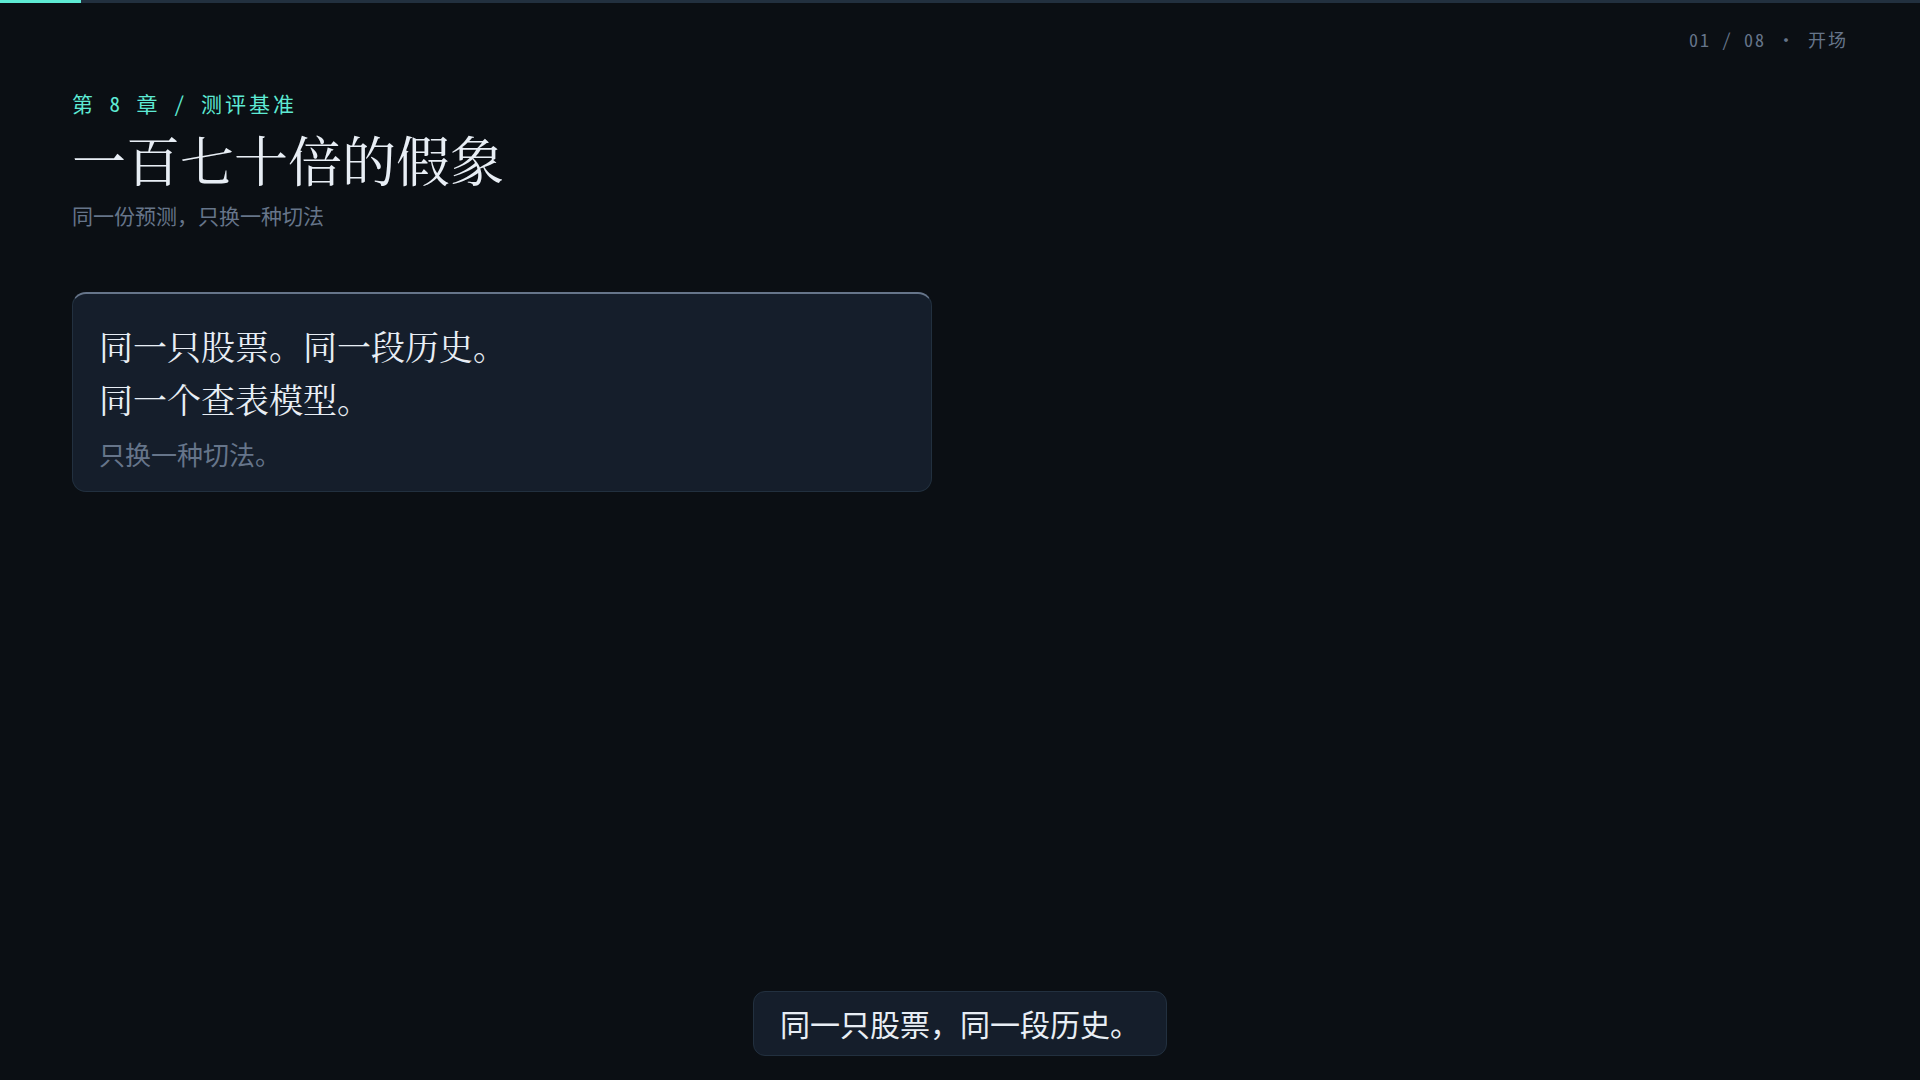
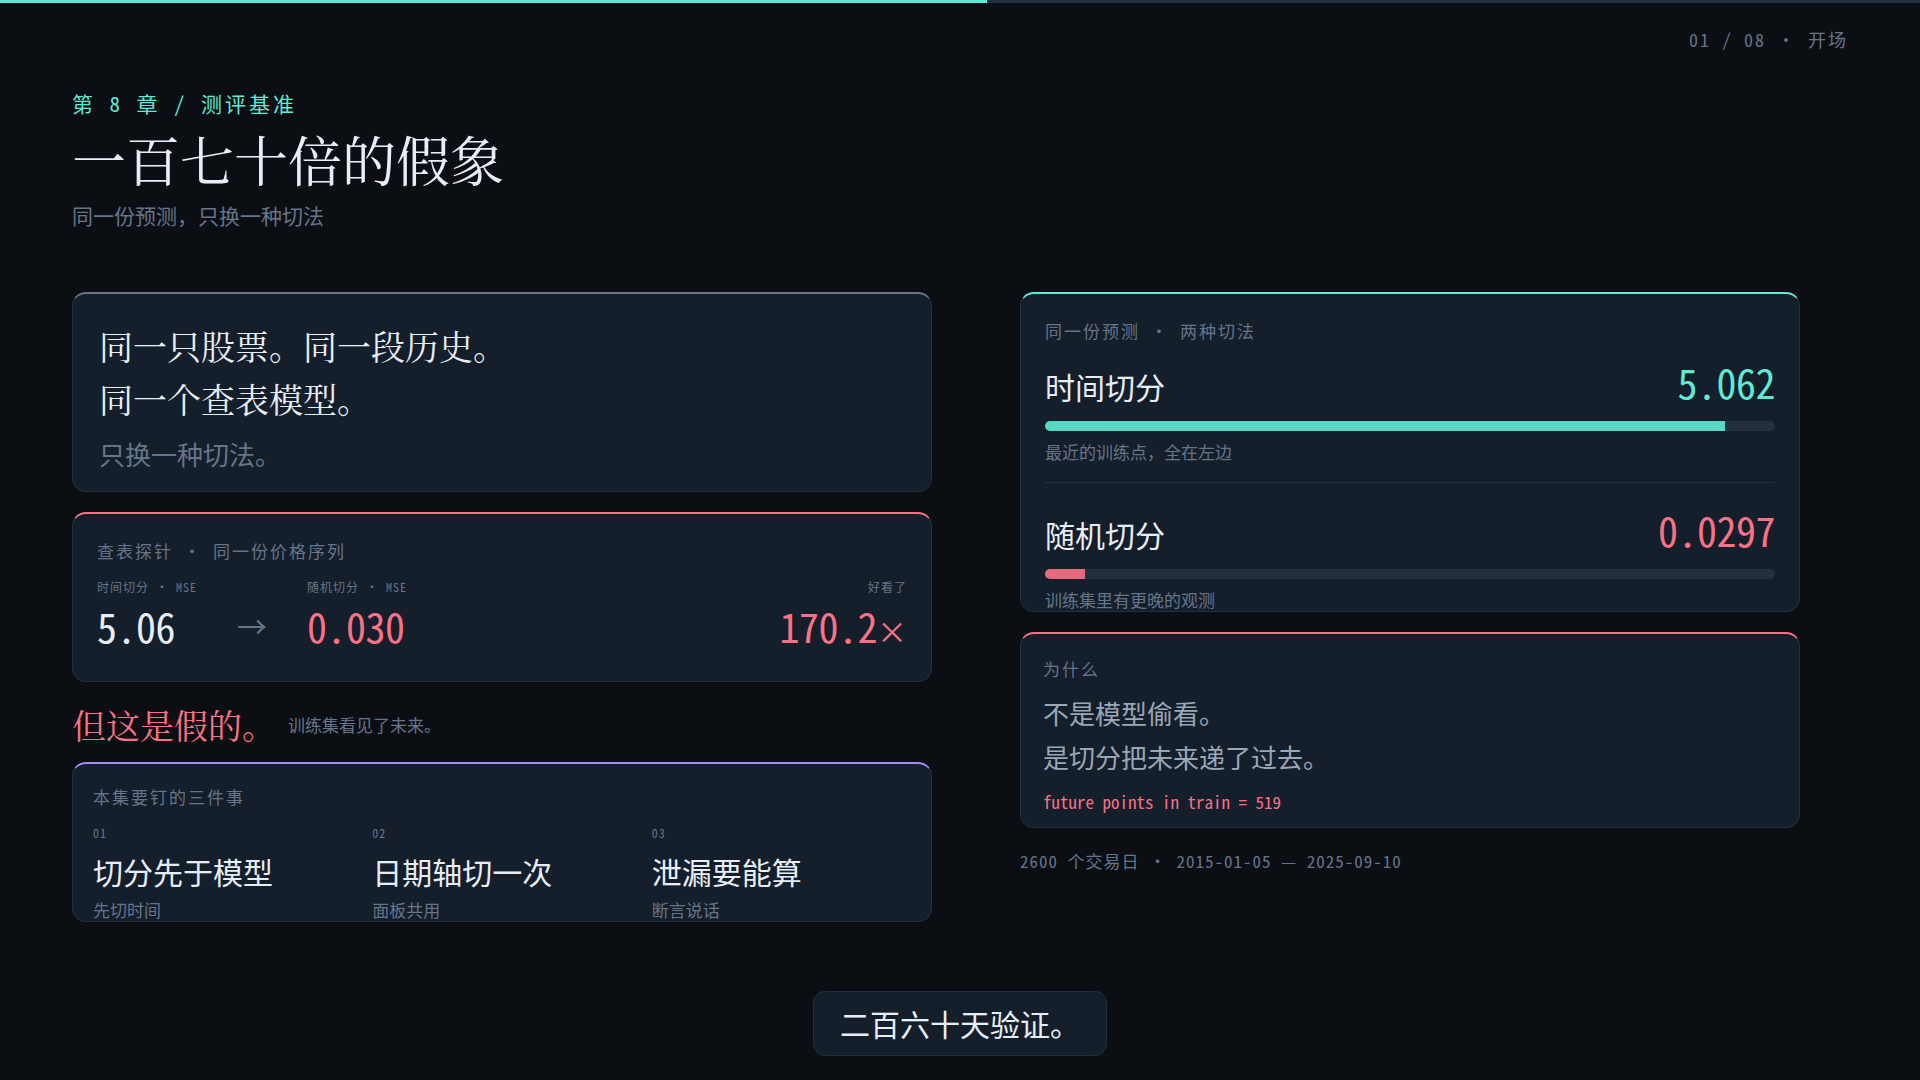
docs(ep67): finalize delivery metadata and handoff

diff --git a/docs/HANDOFF.md b/docs/HANDOFF.md
@@ -1,0 +1,90 @@
+# HANDOFF — tsint 系列生产（2026-10-30）
+
+> 本文件是跨会话交接单。当前进度、已验证数字、未完成项、下次入口都在这里。
+> 用户 2026-10-30 指令：**只完成当前这一集（E67）；后续视频暂停；不发布 B 站。**
+> E67 已完成并提交；本文件写完即进入暂停状态，下一次开工先读本文件与 `docs/tsint-production-plan-2026-10-30.md`。
+
+## 1. 当前进度（截至 2026-10-30 13:59 +08:00）
+
+- 已成片 9 / 74 集：E01、E65、E66、E67、E70–E74。
+- 已实现 20 / 190 个算法模块、275 条断言：
+  - ch09：11 模块 / 142 条（E70–E74）；
+  - ch08：E65 3 / 37，E66 3 / 46，E67 3 / 50。
+- 四仓当前 HEAD：
+  - `video_project`（内容）：本文件所在提交（E67 最终提交）；
+  - `ts-base`（算法/证据）：`b97c7db`；
+  - `ts-admin`（数据导出）：`b071b6f`；
+  - `video-pipeline-blueprint`（引擎）：`856d804`。
+- E67 成片：`series/tsint/episodes/67-split-no-leakage/delivery/Tsint67SplitNoLeakage.mp4`。
+  1364.93 s（22.75 min）/ 40948 帧 / 1920×1080 / 30 fps / 8 场；
+  −15 LUFS，TP −2 dBFS；428 条字幕 cue，8 章，封面 frame 2200（73.33 s）。
+- **未发布 B 站**。film 只到 `status: ready`，没有 `bili.bv`。
+
+## 2. E67 交接：切数据的三条规矩
+
+- pack：`series/tsint/episodes/67-split-no-leakage/`；标题「一百七十倍的假象」。
+- 书页 p.199–204，节 8.4.3 / 8.6.1；计划 22 min，实做 22.75 min。
+- 三个 Haskell 模块（ts-base）：
+  - `TsBase.Algos.Ch08.TemporalSplit`：`chronologicalSplit`、`splitLeaks`、`leakCount`、`splitSizes`；
+  - `TsBase.Algos.Ch08.FixedForecast`：`fixedOrigin`、`naiveModel`、`linearModel`、`trainStats`；
+  - `TsBase.Algos.Ch08.RollingForecast`：`rollingOrigins`、`originIsClean`、`rollingReport`。
+- 数据：ts-admin `inventory/scripts/export_ch08_split.py`；ts-base `data/episodes/67-split-no-leakage/`（2600 个交易日，2015-01-05..2025-09-10；20 只面板 49277 行）。
+- 证据：ts-base `inventory/evidence/ch8-split.json`（50 tests：19/17/14，24 checks 全 PASS）。
+- 屏幕数字（全部可复算）：
+  - 划分 1820 / 260 / 520；训练终点 2022-06-28、验证 2022-06-29、测试 2023-07-24；
+  - 时间切分泄漏 0，随机切分 2（order/train-val、order/val-test），未来点 519；
+  - 查表探针 MSE 5.062234230353 → 0.029734124098，ratio 170.249986637171；
+  - 固定预测 f=20：naive train 0.05851481981525 / test 0.0951015370496 / gap +0.03658671723435；linear 7.422038029699 / 0.673508705187 / −6.748529324512；
+  - 滚动 70 轮：mean 0.680433157601、min 0.0075351491947、max 3.731959677546；
+  - 面板：20 只、13 个训练终点、行数 473..1820、测试 514..520、日期违规 0。
+
+## 3. 崩溃事件与待生效的修复（重要）
+
+2026-10-30 10:09 宿主提交内存耗尽（Event 2004）：
+
+- 证据：`vmmemWSL` 提交 56,124,280,832 B（52.3 GiB）；两个 pythonw 各约 4.4 GB；msedge 1.8 GB；Windows 提交限制 102,396,096,512 B，仅余 2,365,132,800 B。
+- 已改 `/mnt/c/Users/ZYX/.wslconfig`：`memory=40GB`、`swap=24GB`，`[experimental]` 加 `autoMemoryReclaim=gradual`、`sparseVhd=true`；其余 mirrored / dnsTunneling / firewall / autoProxy / kernel 保留。
+- **该配置只在 `wsl --shutdown` 后生效**；本会话不能执行（会杀死 DSH）。下次从 Windows 侧、确认没有长任务时执行 `wsl --shutdown`，再启动并核对 `vmmemWSL`。
+- 立即保护已生效：`docker update --memory 12g --memory-swap 16g haskell-ts`。E67 测试曾触发 cgroup OOM（spec 被 12 GB 上限杀掉），没有再次拖垮宿主。
+- 事后核对命令：Windows 任务管理器「提交大小」、`wsl -l -v`、容器内 `free -g`、`docker inspect haskell-ts --format '{{.HostConfig.Memory}}'`。
+
+## 4. 复现/验收命令
+
+```bash
+# 算法与测试（容器）
+docker start haskell-ts
+docker exec haskell-ts bash -lc 'export PATH=/opt/ghc/9.14.1/bin:$PATH; cd /work && cabal build all && cabal test'
+
+# 证据重生成（ts-base）
+docker exec haskell-ts bash -lc 'export PATH=/opt/ghc/9.14.1/bin:$PATH; cd /work && cabal run evidence-ch08-split'
+
+# 内容仓校验
+cd /root/video_project && node tools/check.mjs && node tools/status.mjs
+
+# 引擎校验与成片重建
+cd /root/video-pipeline-blueprint
+node scripts/films.mjs check --strict
+node scripts/make.mjs --film=tsint-67-split-no-leakage --score=/root/video-pipeline-blueprint/out/e67-score-loop-48k.wav
+```
+
+- E67 的 score 是 E66 `delivery/score.wav`（822 s）两份、6 s 交叉淡化、atrim 1365 s，再重采样 48 kHz，落在 `out/e67-score-loop-48k.wav`。
+- `render_music.mjs` 生成长配乐非常慢（1365 s 超过 14 min 未完成），长集优先复用既有 score。
+- make 的 content check 要求内容仓 **已提交且 HEAD 与 registry 一致**；每次提交后先 `films.mjs sync` 再 make。
+- `publish.coverFrame` 过去被 registry 丢掉，封面总是 180 帧；`856d804` 已修，E67 是首集全自动 2200 帧封面。
+
+## 5. 下次入口（E68）
+
+按 `ts-base/plans/series.json` 的 `production_order`，E67 之后是 **E68 fewshot-and-cost**：
+
+- pack：`series/tsint/episodes/68-fewshot-and-cost/`（目前是 scaffold）；
+- 标题「5% 的样本怎么选：Few-shot 采样器与它的成本账」；ch08；p.203–207；计划 16 min；依赖 E67；
+- 2 个算法：`ch8-fewshot-sampler`（`TsBase.Algos.Ch08.FewShotSampler`）、`ch8-efficiency-bench`（`TsBase.Algos.Ch08.Efficiency`）；
+- 验收必须出现：8 种采样组合的 50 点位置图；同种子两次采样逐位一致；3 个规模模型参数量（337 为自检数字）。
+- 建议顺序：读 spec → 写 2 模块 + 黄金值/边界测试 → ts-admin 导出（沿用 E67 模板）→ 证据 JSON → 8 场 pack → TTS → make → 文档/提交。
+
+## 6. 未完成/注意
+
+- WSL 配置重启后生效这件事**尚未执行**；下次开工先确认宿主内存与容器限额。
+- E67 `delivery/report.json` 记录的内容提交是 `b651b13`，且 `content.dirty=1`（因为封面在 make 检查后才生成）；成片与交付件本身已通过全部 gate，报告属于生成时快照。最终内容提交以本文件所在 HEAD 为准。
+- `delivery/Tsint67SplitNoLeakage.mp4` 按仓库约定被 gitignore，只在磁盘交付；srt/chapters/cover 入库。
+- 后续视频已按用户指令暂停；除 E67 收尾外没有启动 E68。

diff --git a/docs/production-log.md b/docs/production-log.md
@@ -60,3 +60,15 @@
 - 返工: 3 次（标题字号、open 三件事卡增高、implementation 补手算样例），均由 still 复核发现
 - 偏差: 计划 18 min，实做 11.65 min；旁白 194 条比 E65 少 58 s，画面按 822 s 配乐内复用
 - 备注: ch08 第二集；下一步 E67 split-no-leakage（时间序列切分与泄漏）
+## E67 split-no-leakage — 2026-10-30
+- ts-base: b97c7db（TemporalSplit / FixedForecast / RollingForecast + 50 断言 + 2600 点日线与 20 只面板）
+- ts-admin: b071b6f（export_ch08_split.py，000001.SZ 2015–2025，2600 行）
+- video_project: 9f41b7d（pack/scenes/script/narration timing）→ 0587077（split.json 列为 derive 产物）→ b651b13（delivery 导出）→ 本次封面/文档提交
+- 引擎: 856d804（films.mjs 把 film.publish 带进 registry；make 首次自动使用 coverFrame，不再单独 publish）
+- 成片: 1364.93 s（22.75 min），−15 LUFS，TP −2 dBFS，40948 帧，8 场；428 条旁白，1106.7 s 语音
+- 流水线: 复用 E66 822 s score，两份 6 s 交叉淡化到 1365 s 并重采样 48 kHz；8 段 render 复用；stills→mix→loudnorm→flicker→publish 全过；flicker mean|d| 0.0113、p99 0.1121、max 12.05、cuts 7
+- 卡点: ① 测试里 `[0, 0 .. 6]` 步长 0 生成无限列表，spec 被 cgroup OOM kill（12 GB 容器上限挡住宿主崩溃）→ 改 `0 : [0 .. 6]`；② rolling 轮数测试手算错（s=1 应 36、2600 应 70）→ 改断言；③ render_music 生成 1365 s 需 >14 min → 复用 E66 score 拼接；④ 混音采样率 44.1 vs 48 kHz → 重采样；⑤ make 三次被 content check 拦（derived 入库、delivery 未提交、HEAD 移动）→ 逐项提交后 sync；⑥ registry 丢 publish 字段导致封面 180 → films.mjs 接线
+- 返工: 4 次（open 三件事卡高度、implementation/verification/intuition/boundary/outro 卡片高度、script kicker 对齐、封面帧 2200）
+- 偏差: 计划 22 min，实做 22.75 min（+45 s）；全片 428 条旁白，语音密度高于 E66
+- 备注: ch08 第三集；首次全自动封面帧；下一步 E68 按 production_order（用户已要求后续视频暂停）
+

diff --git a/series/tsint/episodes/67-split-no-leakage/docs/plan.md b/series/tsint/episodes/67-split-no-leakage/docs/plan.md
@@ -86,4 +86,10 @@
 
 ## Delivery
 
-- 渲染与响度数据待 make 后回填。
+- 成片：`delivery/Tsint67SplitNoLeakage.mp4`，1364.93 s（22.75 min），40948 帧，1920×1080 / 30 fps，8 场。
+- 响度：综合 −15 LUFS，真峰值 −2 dBFS（loudnorm 目标区间 −16.5..−13，TP ≤ −1.5）。
+- 闪烁门禁：mean|d| 0.0113、p99 0.1121、max 12.05、cuts 7，PASS。
+- 字幕与章节：428 条 cue，8 章；0 条换行，最长行 21 字符，语音 1106.7 s。
+- 封面：`delivery/cover.png`，frame 2200（73.33 s），由 `film.publish.coverFrame` 传入 make。
+- 配乐：复用 E66 的 822 s score，按 6 s 交叉淡化拼到 1365 s 并重采样到 48 kHz；未重渲染 score。
+- make 全 gate 通过；`films check --strict` 在提交后复核。不定向 B 站发布。
